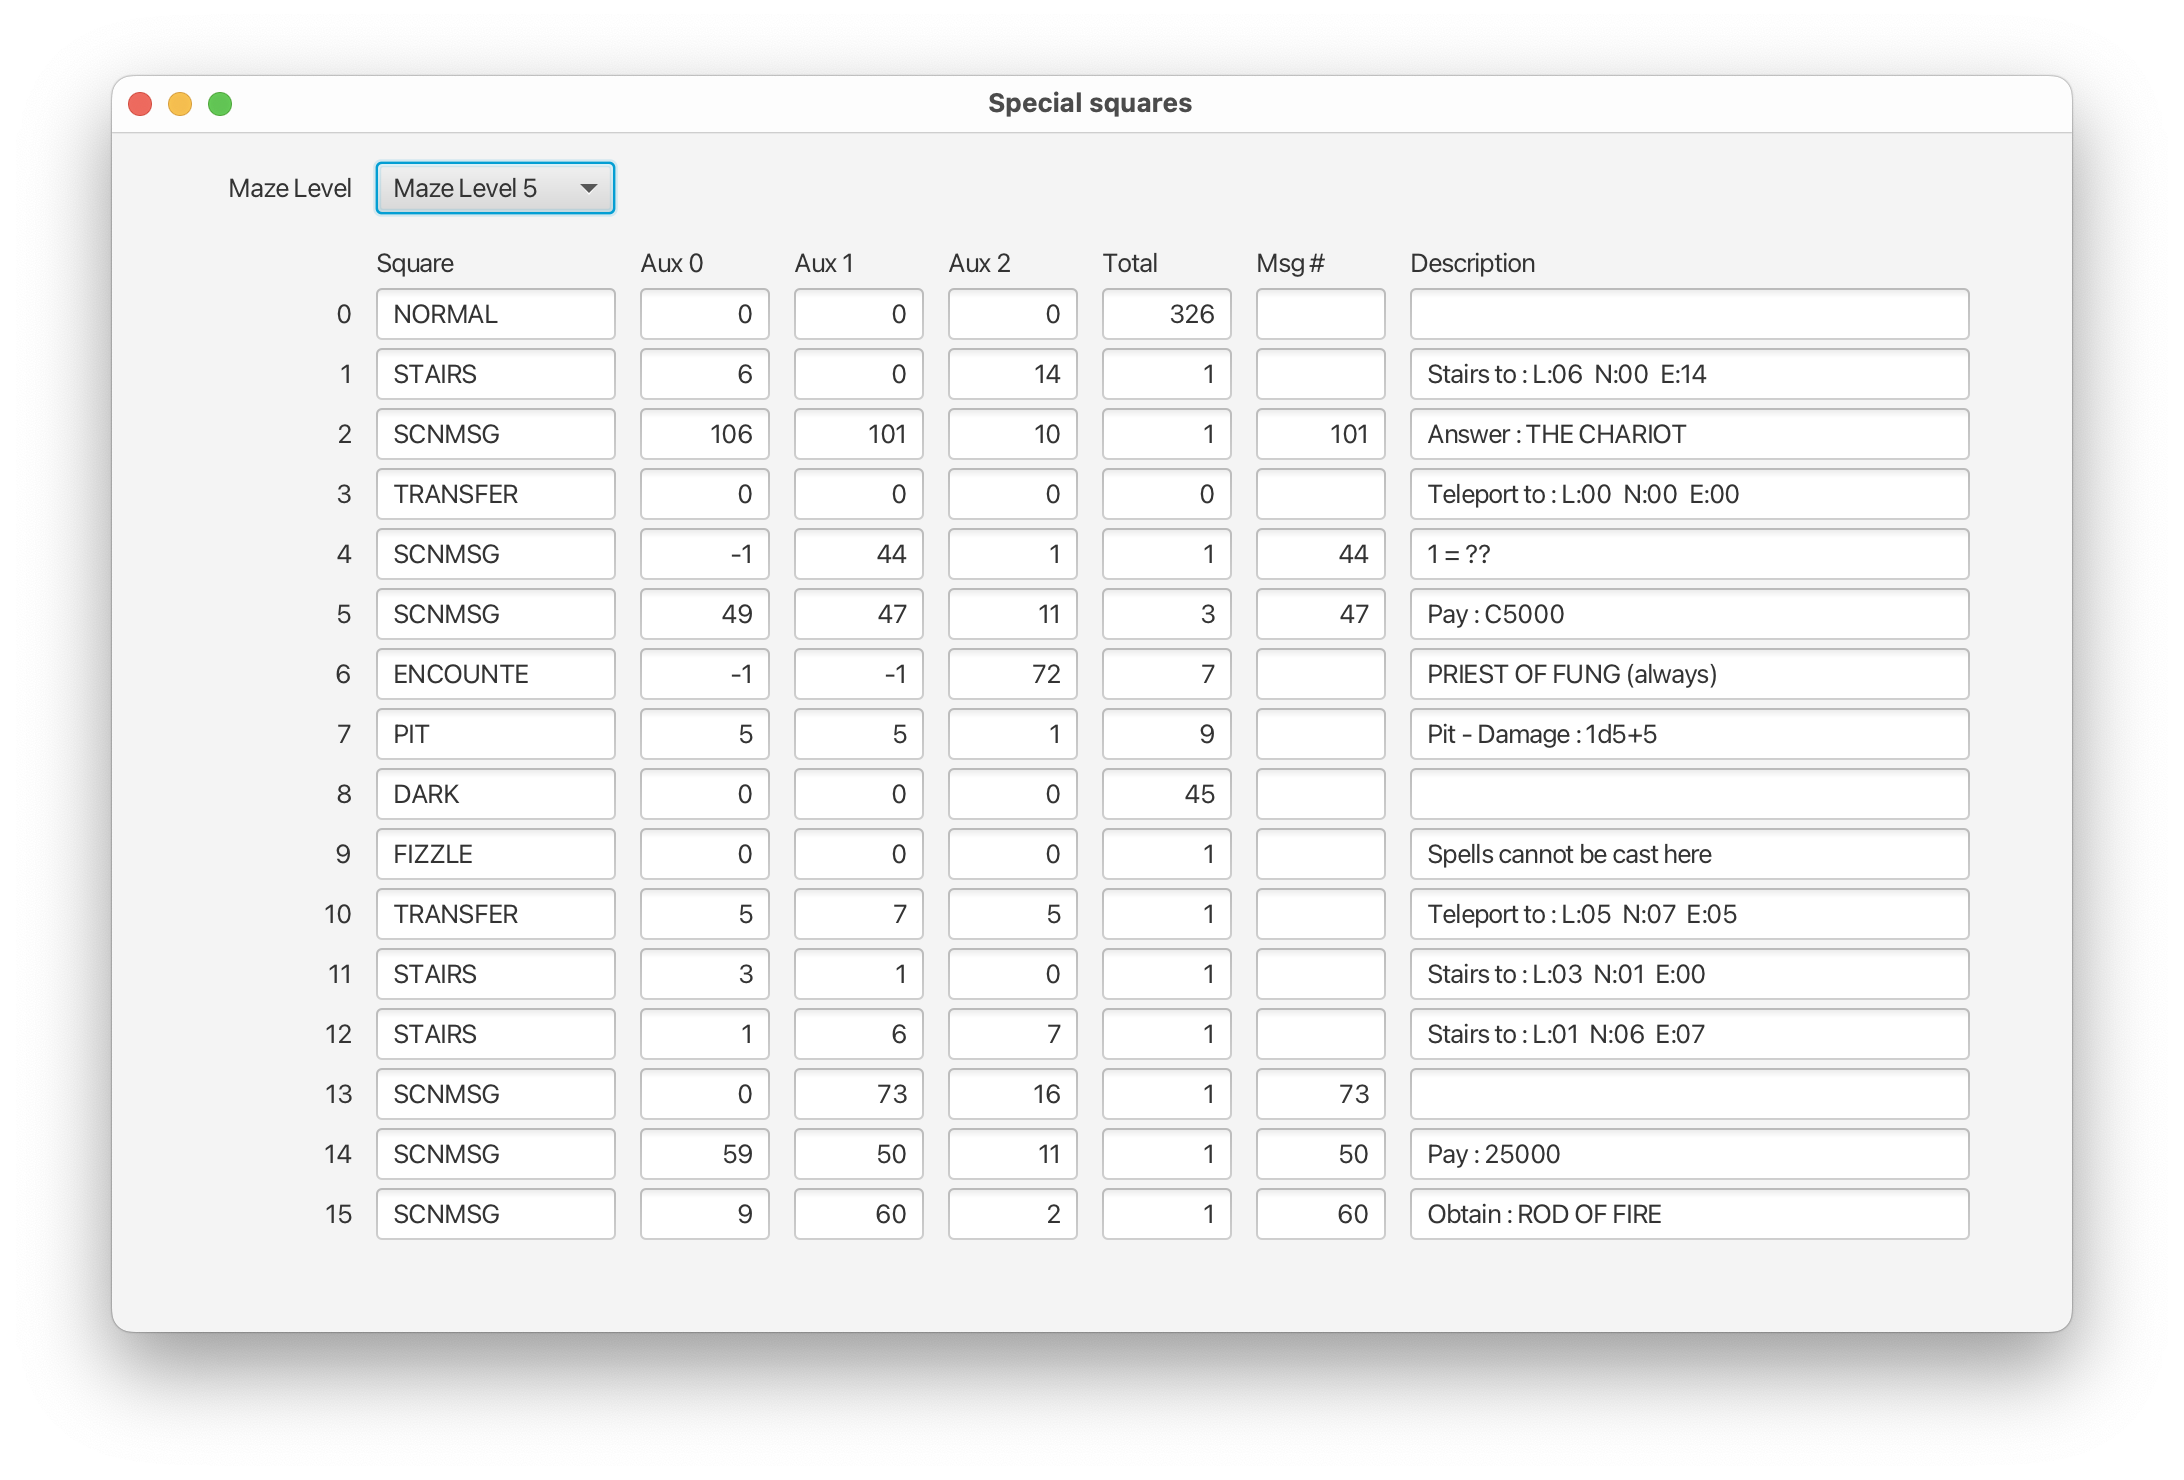
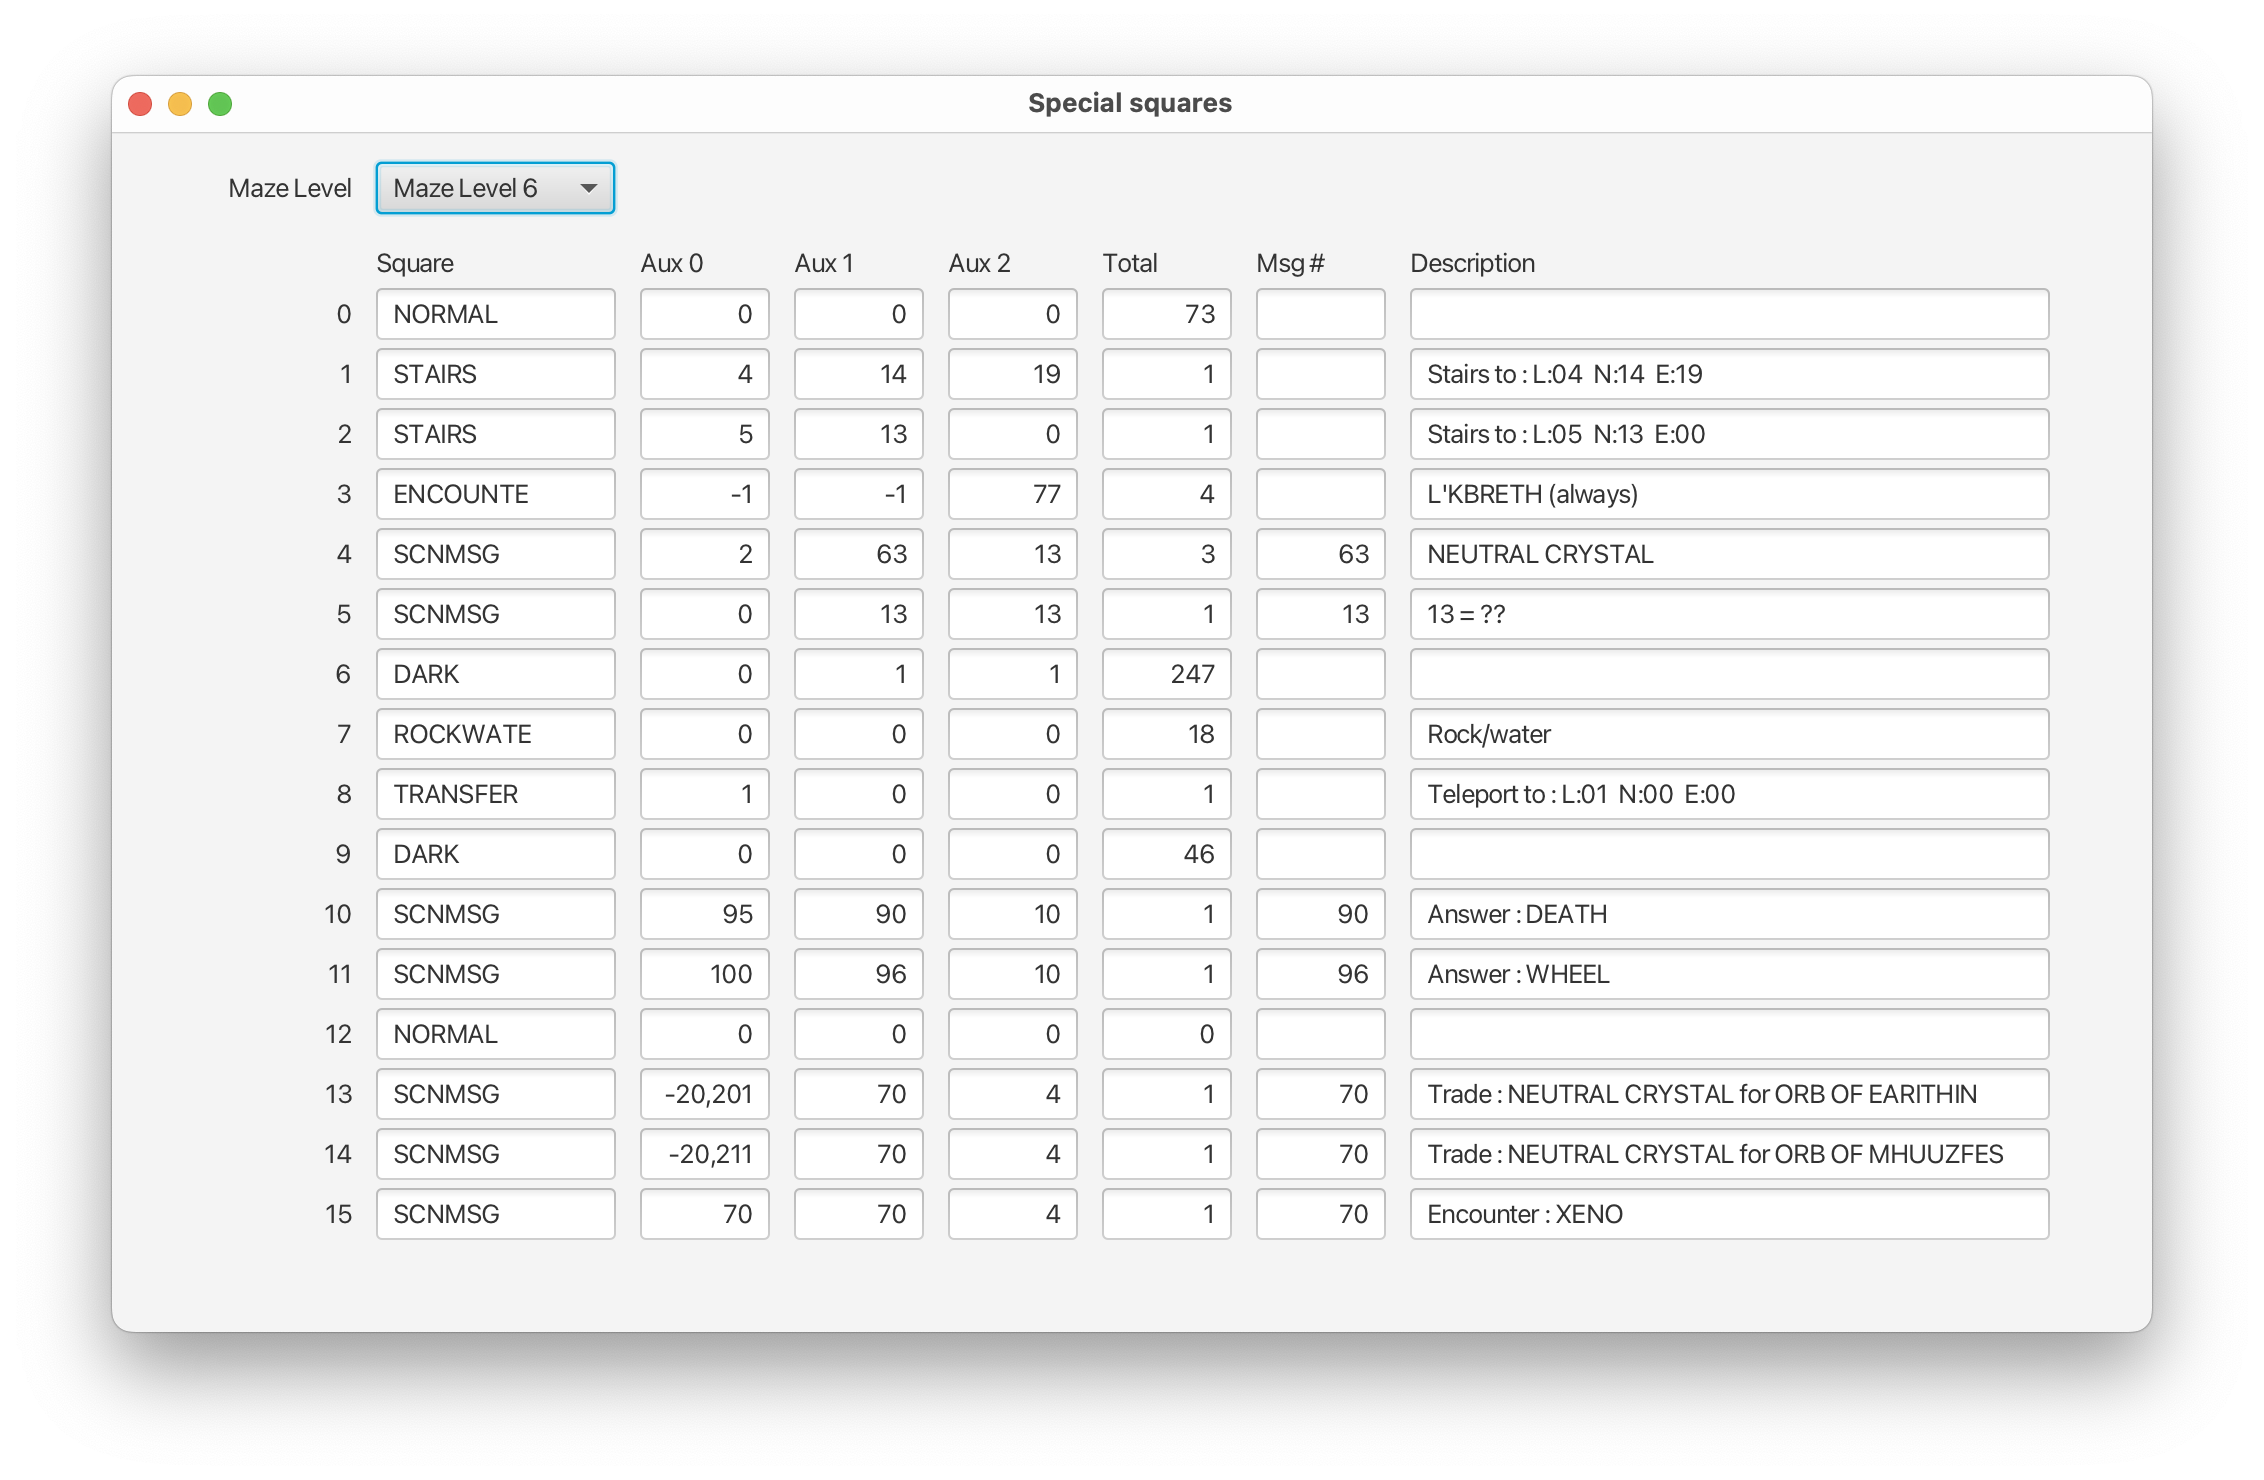
added Trade, fixed scenario 3 item numbering

diff --git a/src/com/bytezone/wizardry/origin/WizardryOrigin.java b/src/com/bytezone/wizardry/origin/WizardryOrigin.java
@@ -135,12 +135,13 @@ public class WizardryOrigin
     for (DataBlock dataBlock : sd.dataBlocks)
       try
       {
-        characters.add (new Character (id++, dataBlock));
+        characters.add (new Character (id++, dataBlock, getScenarioId ()));
       }
       catch (InvalidCharacterException e)
       {
-        System.out.println (e);
-        break;
+        //        System.out.println (e);
+        //        break;
+        continue;
       }
 
     // add monsters
@@ -275,24 +276,29 @@ public class WizardryOrigin
   }
 
   // ---------------------------------------------------------------------------------//
-  public String getItemNegative (int itemNo)
+  public Trade getItemTrade (int itemNo)
   // ---------------------------------------------------------------------------------//
   {
     itemNo *= -1;
+    itemNo -= 20000;
+    //
+    //    if (itemNo > 1000 && itemNo < 1200)
+    //      return getItemName (itemNo - 1000);
+    //
+    //    if (itemNo > 21000 && itemNo < 21200)
+    //      return getItemName (itemNo - 21000);
+    //
+    //    if (itemNo > 20200 && itemNo < 20400)
+    //      return getItemName (itemNo - 20200);
+    //
+    //    if (itemNo > 21400 && itemNo < 21600)
+    //      return getItemName (itemNo - 21400);
+    //
+    //    return "Unknown";
 
-    if (itemNo > 1000 && itemNo < 1200)
-      return getItemName (itemNo - 1000);
-
-    if (itemNo > 21000 && itemNo < 21200)
-      return getItemName (itemNo - 21000);
-
-    if (itemNo > 20200 && itemNo < 20400)
-      return getItemName (itemNo - 20200);
-
-    if (itemNo > 21400 && itemNo < 21600)
-      return getItemName (itemNo - 21400);
-
-    return "Unknown";
+    int item1 = itemNo / 100;
+    int item2 = itemNo % 100;
+    return new Trade (item1, item2);
   }
 
   // ---------------------------------------------------------------------------------//
@@ -339,5 +345,12 @@ public class WizardryOrigin
   // ---------------------------------------------------------------------------------//
   {
     return messages;
+  }
+
+  // ---------------------------------------------------------------------------------//
+  public record Trade (int item1, int item2)
+  // ---------------------------------------------------------------------------------//
+  {
+
   }
 }

diff --git a/src/com/bytezone/wizardry/origin/Character.java b/src/com/bytezone/wizardry/origin/Character.java
@@ -58,7 +58,7 @@ public class Character
   LostXYL lostXYL;
 
   // ---------------------------------------------------------------------------------//
-  public Character (int id, DataBlock dataBlock) throws InvalidCharacterException
+  public Character (int id, DataBlock dataBlock, int scenarioId) throws InvalidCharacterException
   // ---------------------------------------------------------------------------------//
   {
     byte[] buffer = dataBlock.buffer;
@@ -69,6 +69,9 @@ public class Character
       throw new InvalidCharacterException ("Name too long");
 
     name = Utility.getPascalString (buffer, offset);
+    if (name.isEmpty () || ("UNSET".equals (name) && buffer[offset + 40] == 0x07))   // 7 = LOST
+      throw new InvalidCharacterException ("Character is UNSET");
+
     password = Utility.getPascalString (buffer, offset + 16);
     inMaze = Utility.getShort (buffer, offset + 32) != 0;
     race = WizardryOrigin.Race.values ()[Utility.getShort (buffer, offset + 34)];
@@ -89,14 +92,18 @@ public class Character
     //    System.out.println (HexFormatter.formatNoHeader (buffer, offset + 48, 4));
 
     gold = Utility.getWizLong (buffer, offset + 52);
-
     possessionsCount = Utility.getShort (buffer, offset + 58);      // 0-8
+
     for (int i = 0; i < possessionsCount; i++)
     {
       boolean equipped = Utility.getShort (buffer, offset + 60 + i * 8) == 1;
       boolean cursed = Utility.getShort (buffer, offset + 62 + i * 8) == 1;
       boolean identified = Utility.getShort (buffer, offset + 64 + i * 8) == 1;
+
       int itemId = Utility.getShort (buffer, offset + 66 + i * 8);
+      if (scenarioId == 3 && itemId >= 1000)
+        itemId -= 1000;             // why?
+
       possessions.add (new Possession (itemId, equipped, cursed, identified));
     }
 

diff --git a/src/com/bytezone/mazewalker/gui/MazeWalker.java b/src/com/bytezone/mazewalker/gui/MazeWalker.java
@@ -17,6 +17,7 @@ import com.bytezone.wizardry.origin.Monster;
 import com.bytezone.wizardry.origin.Utility;
 import com.bytezone.wizardry.origin.WizardryOrigin;
 import com.bytezone.wizardry.origin.WizardryOrigin.Direction;
+import com.bytezone.wizardry.origin.WizardryOrigin.Trade;
 
 import javafx.event.ActionEvent;
 import javafx.event.EventHandler;
@@ -249,7 +250,7 @@ public class MazeWalker extends AppBase
     specialsStage.setTitle ("Special squares");
     specialsPane = new SpecialsPane (wizardry, specialsStage);
 
-    Scene scene = new Scene (specialsPane, 980, 600);               // wh
+    Scene scene = new Scene (specialsPane, 1020, 600);               // wh
     specialsStage.setScene (scene);
     scene.setOnKeyPressed (e -> specialsPane.keyPressed (e));
   }
@@ -412,10 +413,17 @@ public class MazeWalker extends AppBase
               break;
 
             case 4:
+              description.append ("\n\nSearch (Y/N)?");
               if (aux[0] >= 0)               // monster
                 description.append ("\n\nEncounter: " + wizardry.getMonster (aux[0]));
+              else if (aux[0] > -1200)
+                description.append ("\n\nObtain : " + wizardry.getItem (aux[0] * -1 - 1000));
               else
-                description.append ("\n\nObtain : " + wizardry.getItemNegative (aux[0]));
+              {
+                Trade trade = wizardry.getItemTrade (aux[0]);
+                description.append ("\n\nTrade : " + wizardry.getItemName (trade.item1 ()) + " for "
+                    + wizardry.getItemName (trade.item2 ()));
+              }
               break;
 
             case 5:                       // requires

diff --git a/src/com/bytezone/mazewalker/gui/SpecialsPane.java b/src/com/bytezone/mazewalker/gui/SpecialsPane.java
@@ -7,6 +7,7 @@ import com.bytezone.wizardry.origin.MazeLevel;
 import com.bytezone.wizardry.origin.Message;
 import com.bytezone.wizardry.origin.Monster;
 import com.bytezone.wizardry.origin.WizardryOrigin;
+import com.bytezone.wizardry.origin.WizardryOrigin.Trade;
 
 import javafx.geometry.HPos;
 import javafx.geometry.Pos;
@@ -35,7 +36,7 @@ public class SpecialsPane extends BasePane
     super (wizardry, stage);
 
     int width = 65;
-    setColumnConstraints (110, 120, width, width, width, width, width, 280);
+    setColumnConstraints (110, 120, width, width, width, width, width, 320);
 
     LabelPlacement lp0 = new LabelPlacement (0, 0, HPos.RIGHT, 1);
     DataPlacement dp0 = new DataPlacement (1, 0, Pos.CENTER_LEFT, 1);
@@ -117,11 +118,17 @@ public class SpecialsPane extends BasePane
                 description.append ("3 = ??");
               break;
 
-            case 4:
+            case 4:               // Search (Y/N)
               if (aux0 >= 0)
                 description.append ("Encounter : " + wizardry.getMonster (aux0));
+              else if (aux0 > -1200)
+                description.append ("Obtain : " + wizardry.getItem (aux0 * -1 - 1000));
               else
-                description.append ("\n\nObtain : " + wizardry.getItemNegative (aux0));
+              {
+                Trade trade = wizardry.getItemTrade (aux0);
+                description.append ("Trade : " + wizardry.getItemName (trade.item1 ()) + " for "
+                    + wizardry.getItemName (trade.item2 ()));
+              }
               break;
 
             case 5:                       // requires

diff --git a/src/com/bytezone/mazewalker/gui/CharactersPane.java b/src/com/bytezone/mazewalker/gui/CharactersPane.java
@@ -64,7 +64,7 @@ public class CharactersPane extends BasePane
   {
     super (wizardry, stage);
 
-    setColumnConstraints (110, 69, 70, 20, 20, 20, 40, 40, 90, 20, 80, 20, 80, 20);
+    setColumnConstraints (110, 69, 70, 20, 20, 20, 30, 50, 90, 20, 80, 20, 80, 20);
 
     // make all rows the same height
     RowConstraints rowCo = new RowConstraints (25);
@@ -187,6 +187,11 @@ public class CharactersPane extends BasePane
       {
         Possession possession = character.possessions.get (i);
         Item item = wizardry.getItem (possession.id ());
+        if (item == null)
+        {
+          System.out.println ("null item # " + possession.id ());
+          break;
+        }
 
         if (possession.identified ())
         {
